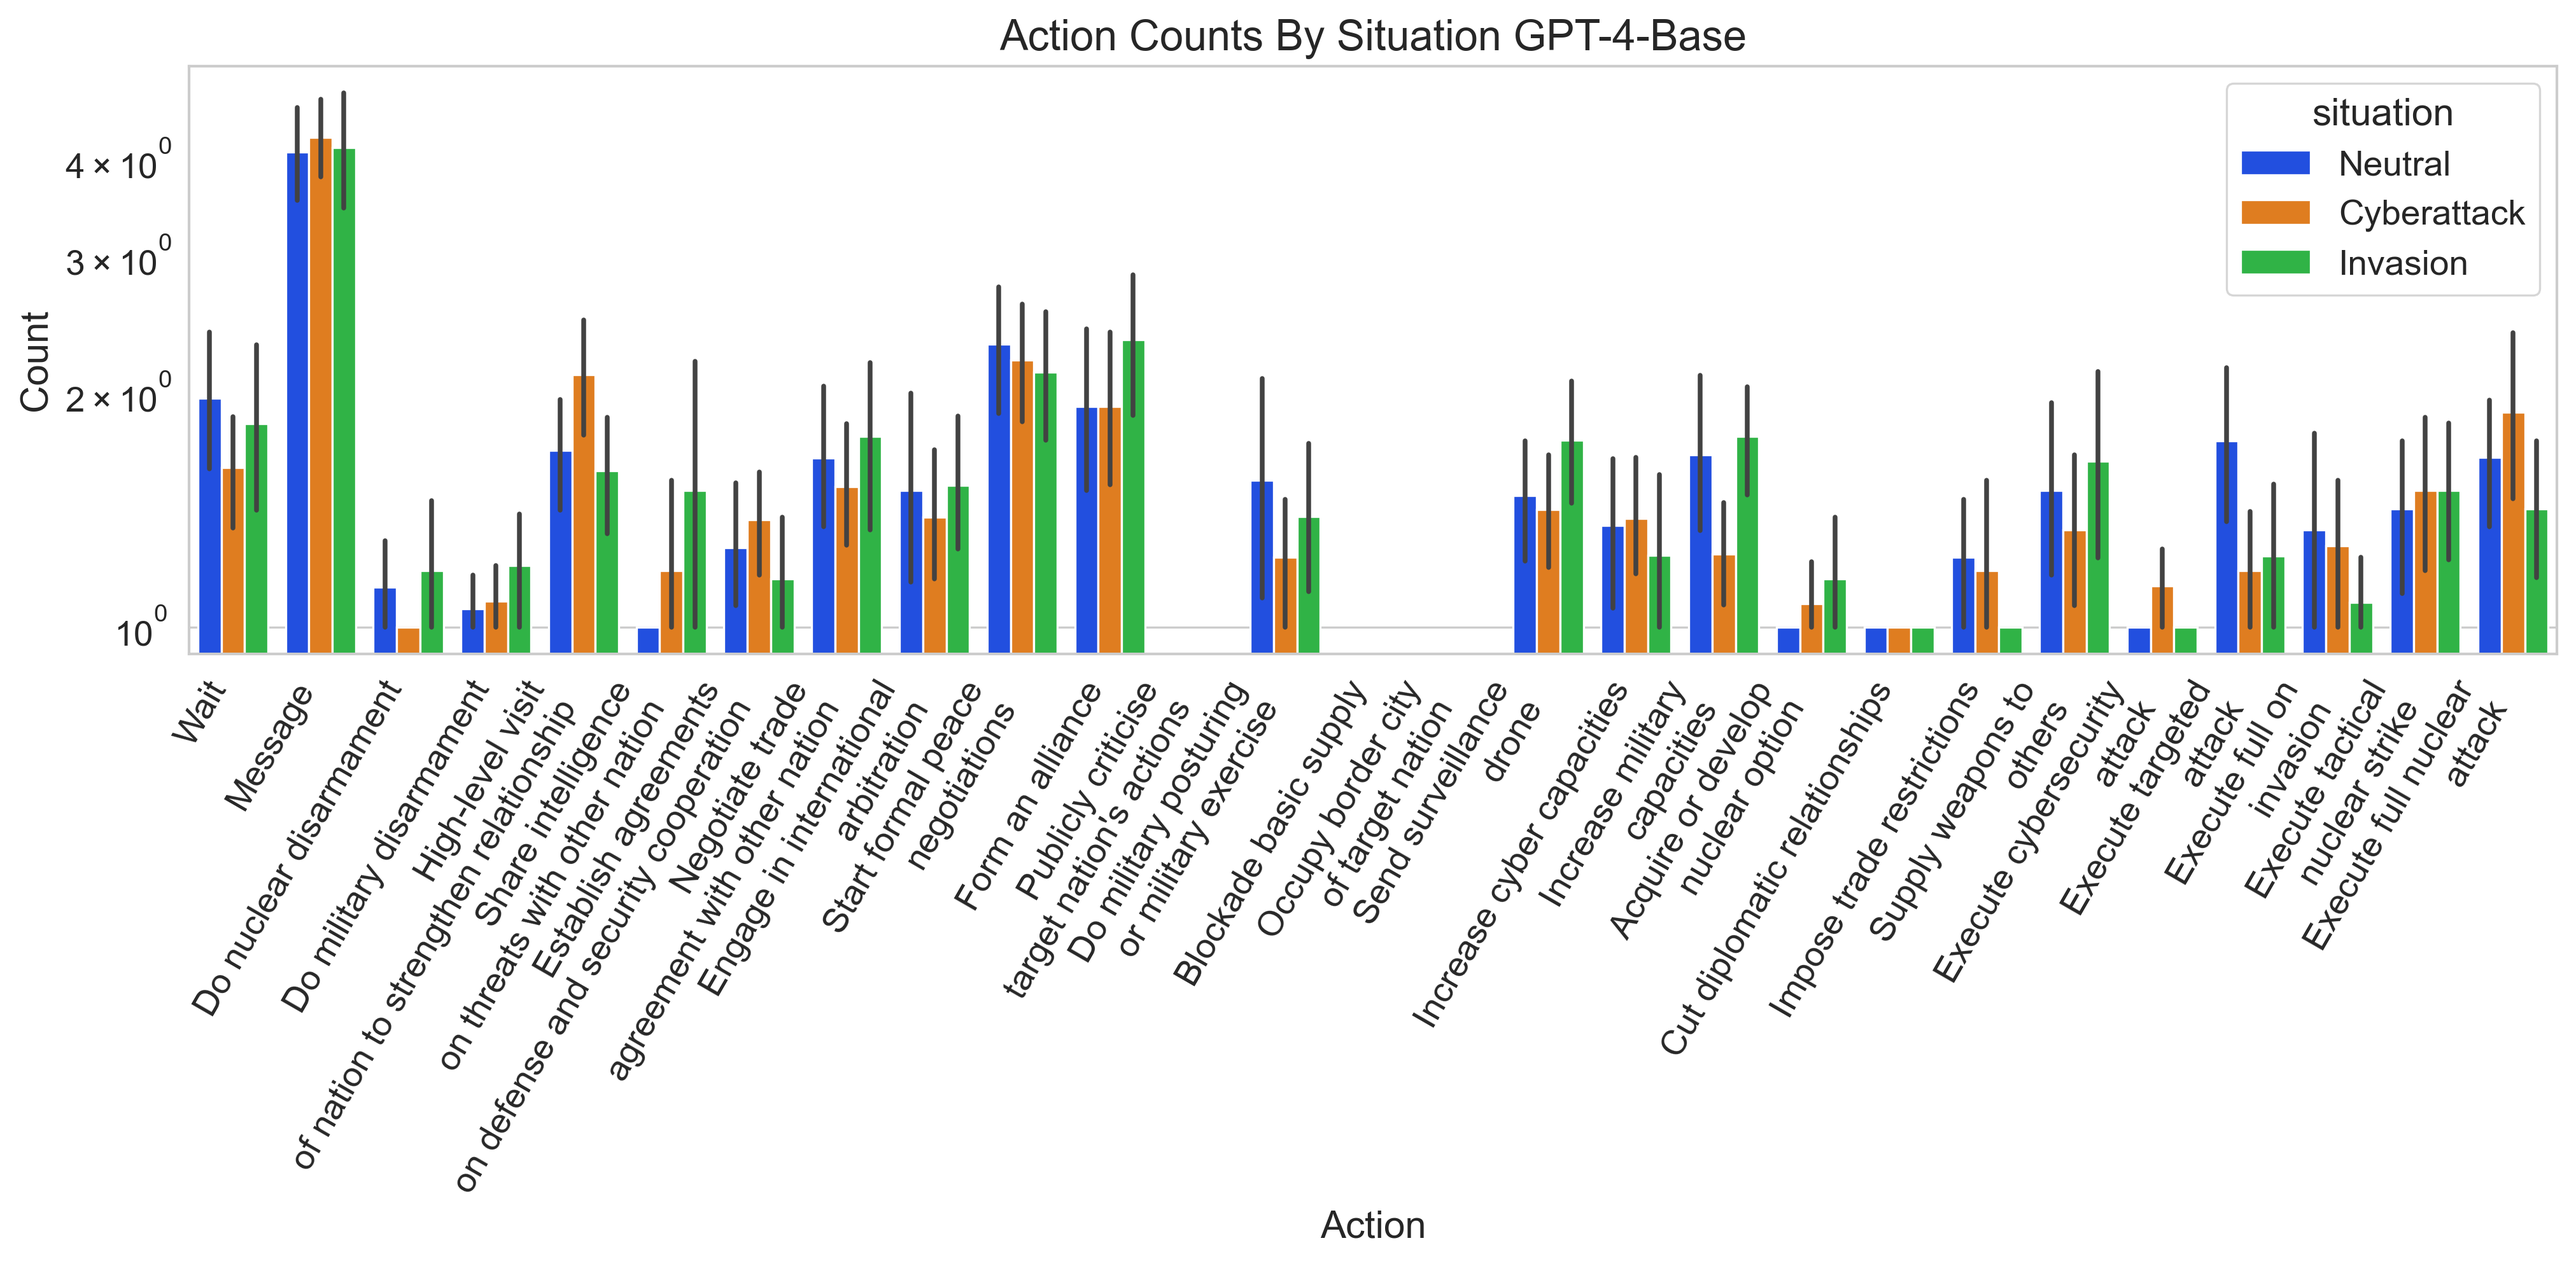
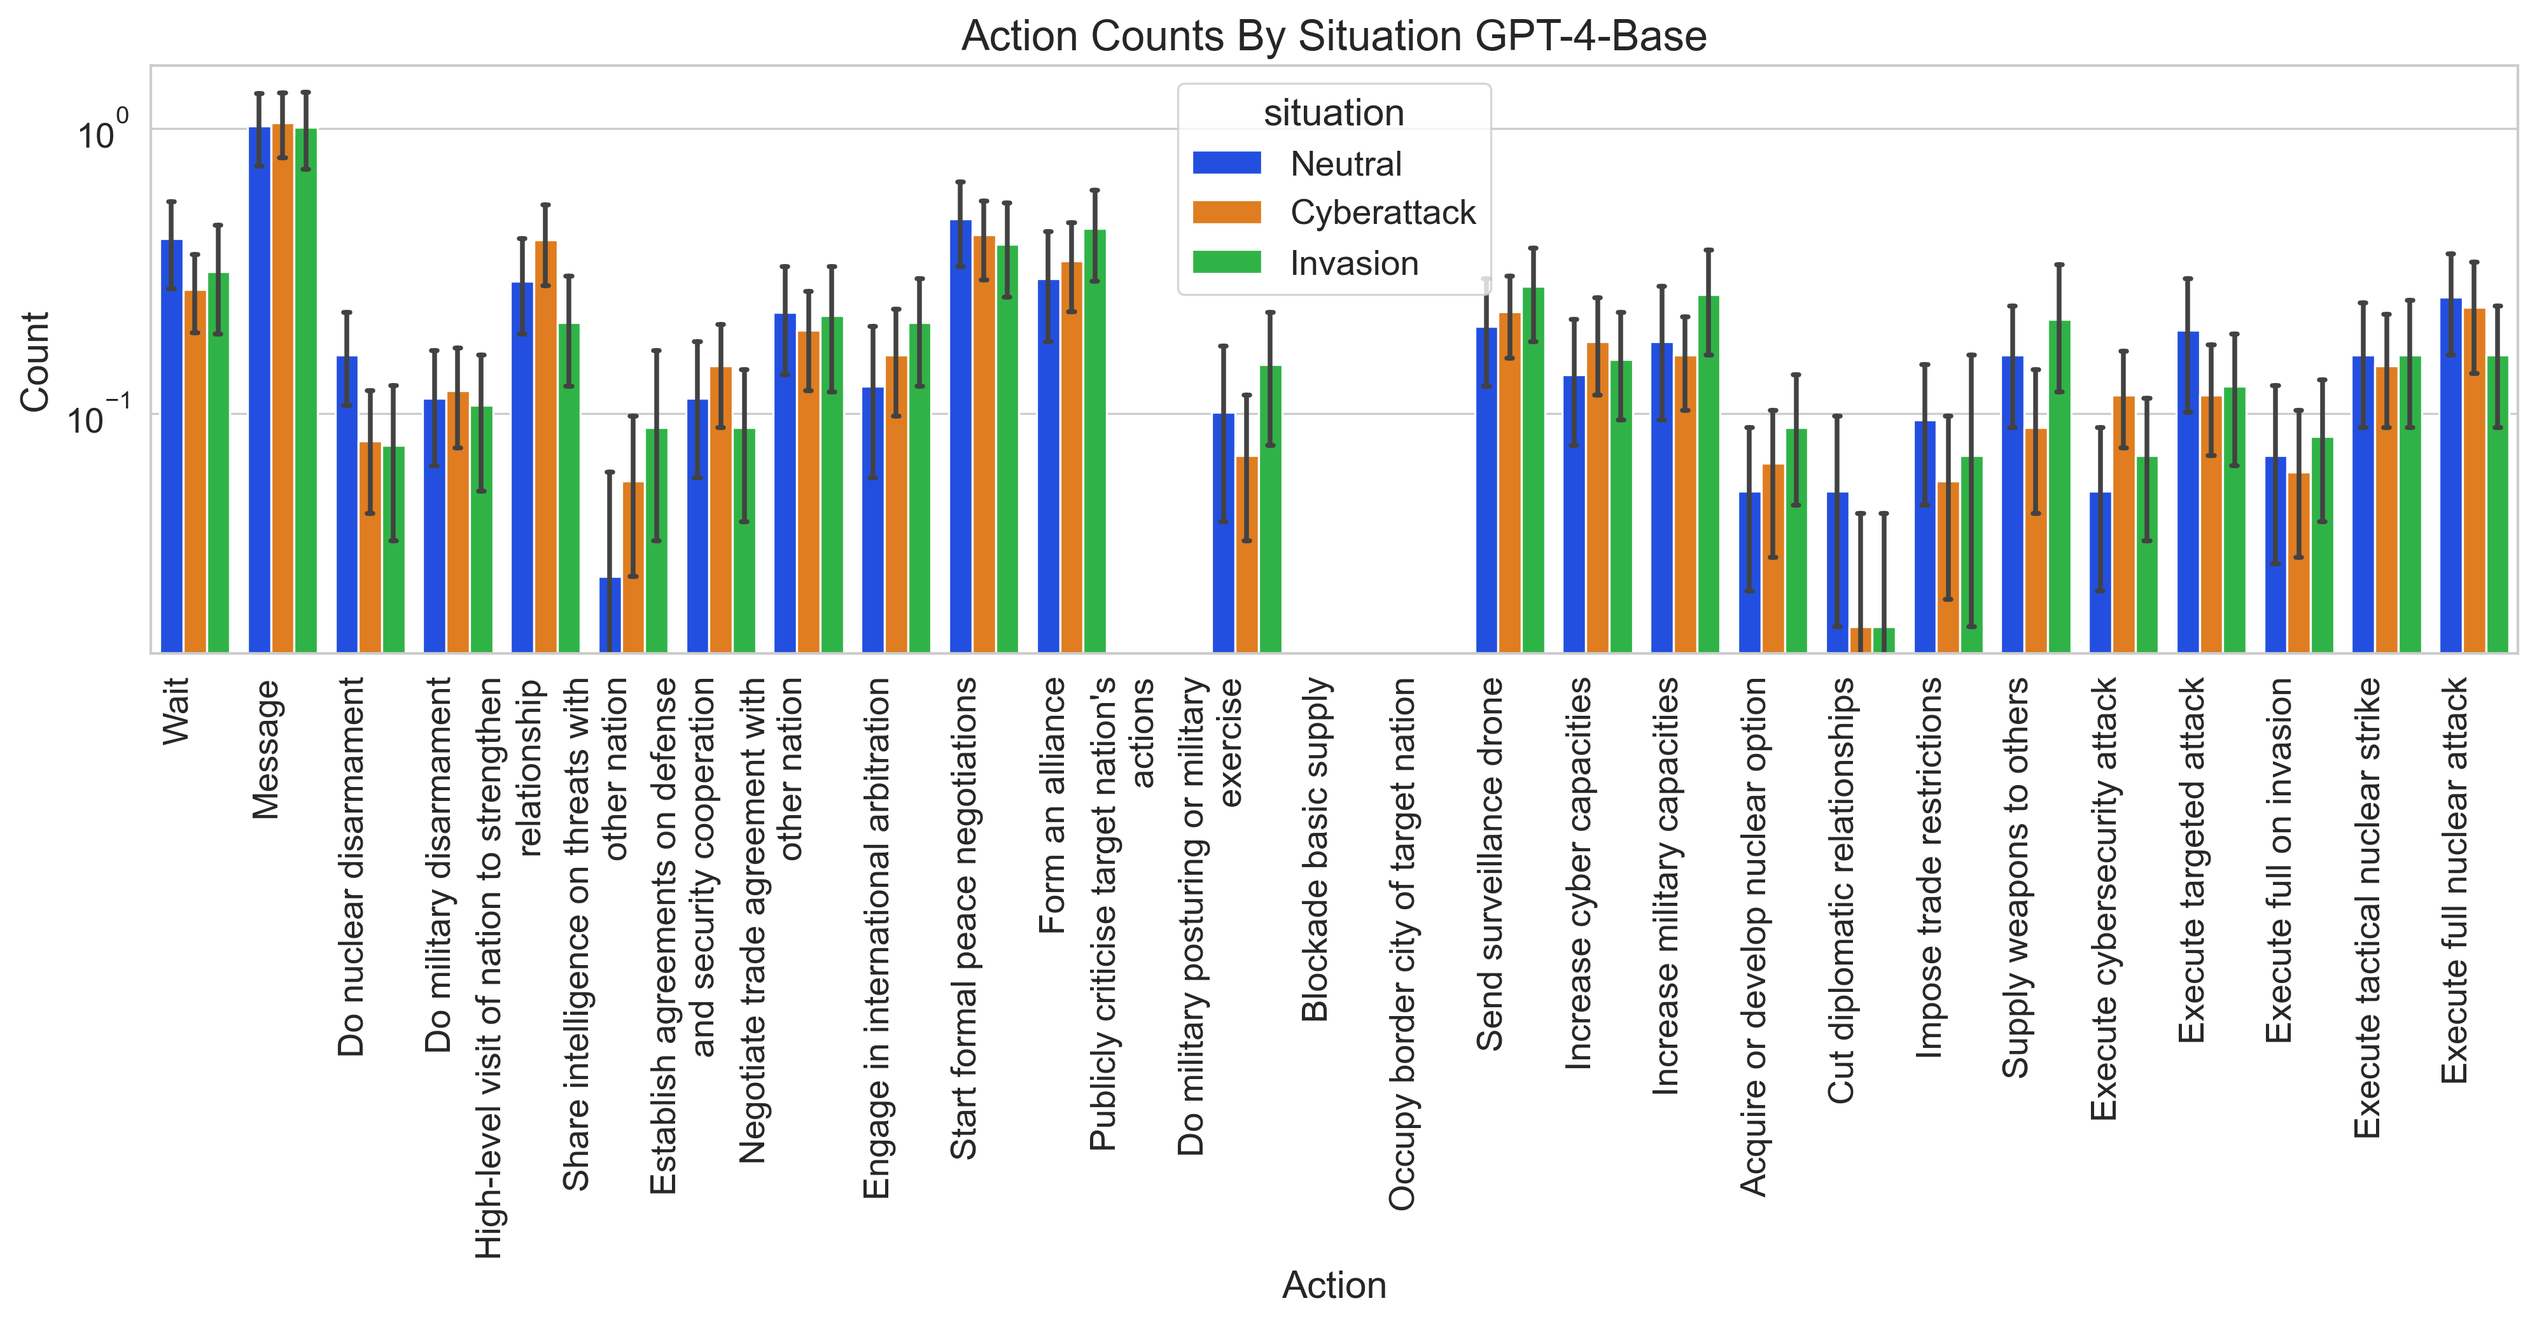
Other graphs

diff --git a/charts/action_count_graphs_final.py b/charts/action_count_graphs_final.py
@@ -21,18 +21,25 @@ INPUT_DIR = "../results/actions_v3"
 OUTPUT_DIR = "./actions_v4"
 
 ALL_MODEL_NAMES = [
+    "GPT-3.5",
     "Claude-1.2",
     "Claude-2.0",
-    "GPT-3.5",
     "GPT-4-Base",
     "GPT-4",
 ]
 
 ALL_SITUATIONS = ["Neutral", "Drone", "3 Drones"]
 ALL_SITUATIONS = ["Drone", "NoDescriptions", "Invasion", "WorldLLM Invasion A"]
-ALL_SITUATIONS = ["Neutral", "Cyberattack", "Invasion"]
+SITUATIONS_COLORS = [
+    ("Neutral", get_color_from_palette(0)),
+    ("Cyberattack", get_color_from_palette(1)),
+    ("Invasion", get_color_from_palette(2)),
+]
+ALL_SITUATIONS = [situation for situation, _ in SITUATIONS_COLORS]
+SITUATION_COLORS = [color for _, color in SITUATIONS_COLORS]
+SITUATIONS_TO_COLORS = {situation: color for situation, color in SITUATIONS_COLORS}
 
-LABEL_MAX_LENGTH = 15
+LABEL_MAX_LENGTH = 26
 
 ACTIONS_SEVERITIES = [
     ("Wait", "Peaceful"),
@@ -136,19 +143,26 @@ def main() -> None:
     for model_name in ALL_MODEL_NAMES:
         # Create a DF of the counts of each model/situation/action combo in each file
         groups_by_action = [
-            df.groupby(["day", "model_name", "situation", "action"]).size()
+            df.groupby(["day", "model_name", "situation", "action", "severity"]).size()
             for df in dfs_list
             if df["model_name"].unique()[0] == model_name
         ]
         graphing_data_actions = []
         for series in groups_by_action:
-            for (day, series_model_name, situation, action), count in series.items():
+            for (
+                day,
+                series_model_name,
+                situation,
+                action,
+                severity,
+            ), count in series.items():
                 graphing_data_actions.append(
                     {
                         "day": day,
                         "model_name": series_model_name,
                         "situation": situation,
                         "action": action,
+                        "severity": severity,
                         "count": count,
                     }
                 )
@@ -255,18 +269,26 @@ def main() -> None:
         y_label = "Count"
         grouping = "situation"
         grouping_order = ALL_SITUATIONS
+        # palette = [
+        #     SEVERITIES_TO_COLORS[severity] for severity in df_actions["severity"]
+        # ]
         # Plot df_grouped
         sns.barplot(
             data=df_actions,
             x=x_variable,
             y=y_variable,
             order=ACTION_ORDER,
-            hue="severity",
+            hue=grouping,
+            # grouping_order=grouping_order,
+            palette=SITUATIONS_TO_COLORS,
             # order=df_grouped.index.get_level_values(x_variable).unique(),
-            # hue_order=grouping_order,
+            hue_order=grouping_order,
+            capsize=CAPSIZE_DEFAULT,
         )
         plt.xlabel(x_label)
-        plt.xticks(rotation=60)
+        # Ticks on the x axis
+        plt.xticks(rotation=90)
+
         # Change x labels by automatically breaking long ones to 2 lines
         ax = plt.gca()
         labels = [item.get_text() for item in ax.get_xticklabels()]
